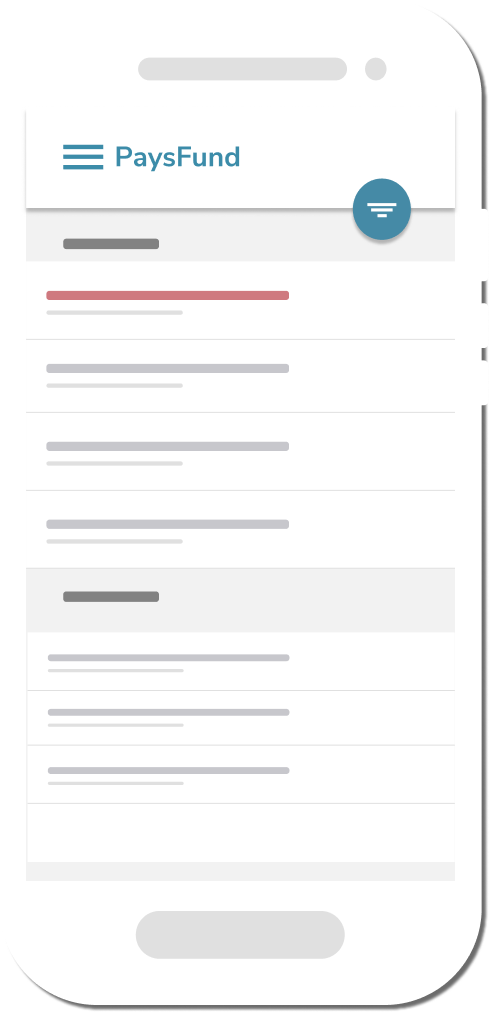
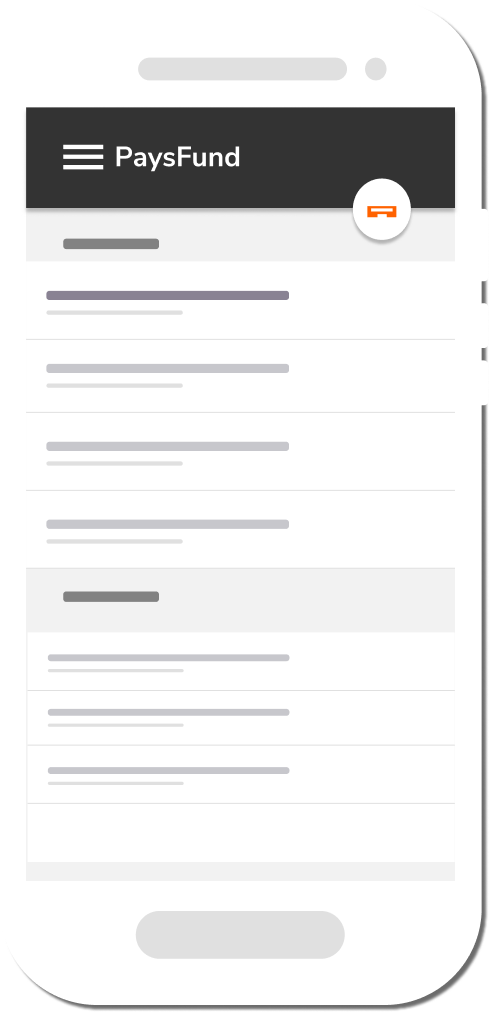
changed UI theme

Changed region(s): [[0.0306, 0.0918, 0.949, 0.2448], [0.0918, 0.2754, 0.5816, 0.306]]

diff --git a/public/css/style.css b/public/css/style.css
@@ -7,7 +7,8 @@ body {
 #header {
     width: 100%;
     height: 650px;
-    background: linear-gradient(180deg, #358CAA 1.49%, #F87373 98.73%);
+    /* background: linear-gradient(180deg, #358CAA 1.49%, #F87373 98.73%); */
+    background: #333333;
 }
 
 #logo {
@@ -56,16 +57,27 @@ body {
 
 #sign-in {
     margin-top: 9px;        
-    background: #E57679;
+    /* background: #E57679; */
+    background: #FF6200;
     border-radius: 10px;   
 }
 
 #sign-in a  {
-    padding: 7px 10px;        
+    padding: 7px 14px;        
 }
 
 
 /* HEADER BODY STYLE */
+#background-text {
+    position: absolute;
+    left: 5%;
+    top: 30%;
+    color: white;
+    font-size: 300px;
+    font-weight: bold;
+    color: rgba(255, 255, 255, 0.04);
+}
+
 #header-content {
     padding: 80px 200px;
     display: grid;
@@ -94,18 +106,21 @@ body {
 
 #button-hd {
     width: fit-content;
-    color: #E57679;
+    /* color: #E57679; */
+    color: white;
     border: none;
-    background: white;
+    background: #FF6200;
     box-shadow: 0px 4px 4px rgba(0, 0, 0, 0.25);
     padding: 10px 15px;
     border-radius: 15px;
-    transition: background 1s, color 1s;
+    transition: background 1s, color 2s;
 }
 
 #button-hd:hover {
-    background: #E57679;
-    color: white;
+    /* background: #E57679;
+    color: white; */
+    color: #FF6200;
+    background: white;
 }
 
 #mobile-app {
@@ -126,7 +141,8 @@ body {
 
 .section-header {
     font-size: 36px;
-    color: #3D8BA8;
+    /* color: #3D8BA8; */
+    color: #FF6200;
 }
 
 .section-sub {
@@ -170,7 +186,8 @@ body {
     width: 60px;
     height: 60px;
     border-radius: 30px;
-    background: linear-gradient(180deg, #358CAA 1.49%, #F87373 98.73%);
+    /* background: linear-gradient(180deg, #358CAA 1.49%, #F87373 98.73%); */
+    background: linear-gradient(180deg, #FF6200 0%, #000000 98.9%);
 }
 
 #feature-heading {
@@ -185,7 +202,8 @@ body {
     width: 60px;
     height: 60px;
     border-radius: 30px;
-    background: linear-gradient(180deg, #358CAA 1.49%, #F87373 98.73%);
+    /* background: linear-gradient(180deg, #358CAA 1.49%, #F87373 98.73%); */
+    background: linear-gradient(180deg, #FF6200 0%, #000000 98.9%);    
 }
 
 #media1 {
@@ -208,7 +226,7 @@ body {
 }
 
  .testimony {
-    background: #3D8BA8;
+    background: #333333;
     color: white;
     padding: 20px;
     margin-left: 30px;
@@ -232,7 +250,7 @@ body {
     width: 100%;
     height: 300px;
     padding: 70px 170px;
-    background: #306B8E;
+    background: #333333;
 }
 
 #divider-content {
@@ -253,7 +271,7 @@ body {
     grid-row: 1/3;
     width: fit-content;
     height: fit-content;
-    background: #E87678;
+    background: #FF6200;
     color: white;
     border: none;
     padding: 12px 16px;
@@ -262,7 +280,7 @@ body {
 }
 
 #divider-cta:hover {
-    color: #E87678;
+    color: #FF6200;
     background: white;
 }
 
@@ -276,7 +294,7 @@ body {
 }
 
 #divider-title {
-    color: #306B8E;
+    color: #FF6200;
     font-size: 20px;
     font-weight: bold;
     letter-spacing: 0.04em;
@@ -308,7 +326,7 @@ body {
 #footer-heading a {
     text-transform: uppercase;
     font-weight: bold;
-    color: #E87678;
+    color: #333333;
 }
 
 #footer-links a {

diff --git a/resources/views/home-page.blade.php b/resources/views/home-page.blade.php
@@ -7,11 +7,11 @@
     <title>Homepage</title>
     <link href="https://fonts.googleapis.com/css?family=Nunito+Sans" rel="stylesheet">
     <link rel="stylesheet" href="https://maxcdn.bootstrapcdn.com/bootstrap/3.3.7/css/bootstrap.min.css">
-    <link rel="stylesheet" href="/../../public/css/style.css">
+    <link rel="stylesheet" href="css/style.css">
 </head>
 <body>
     <!-- HEADER BEGINS -->
-    <div id="header">
+    <div id="header"> 
         <nav class="navbar navbar-default">
         <div class="container-fluid">
           <div class="navbar-header">
@@ -21,7 +21,7 @@
               <span class="icon-bar"></span>
               <span class="icon-bar"></span>
             </button>
-            <a class="navbar-brand" href="#"><img id="logo" src="../../public/img/logo.png" alt="Company logo" style="display: inline;"> Transfer Rules</a>
+            <a class="navbar-brand" href="#"><img id="logo" src="img/logo.png" alt="Company logo" style="display: inline;"> TransferFunds</a>
           </div>
           <div id="navbar" class="navbar-collapse collapse">
             <ul class="nav navbar-nav navbar-right">
@@ -36,7 +36,7 @@
       </nav>
 
       <div id="header-content">
-          <img src="../../public/img/phone.png" alt="Transfer rules mobile app screenshot" id="mobile-app">
+          <img src="img/phone.png" alt="Transfer rules mobile app screenshot" id="mobile-app">
           <div id="content-text" class="clearfix">
                 <span id="heading-hd">
                     Create an account for your company with PaysFund
@@ -50,6 +50,8 @@
           </div>
       </div>
     </div>
+
+    <p id="background-text">FUNDS</p>
     <!--HEADER ENDS -->
 
     <!-- SECTION ONE - (AMAZING FEATURES) --> 
@@ -62,7 +64,7 @@
             Lorem ipsum dolor sit amet, consectetur adipiscing elit, sed do eiusmod tempor incididunt ut labore et dolore magna aliqua. Ut enim             
         </p>
         <div id="features">
-            <img src="../../public/img/screenshots.png" alt="site screenshot" id="screenshots">
+            <img src="img/screenshots.png" alt="site screenshot" id="screenshots">
             <div id="features-list">
                 <div class="feature">
                     <span class="feature-img"></span>
